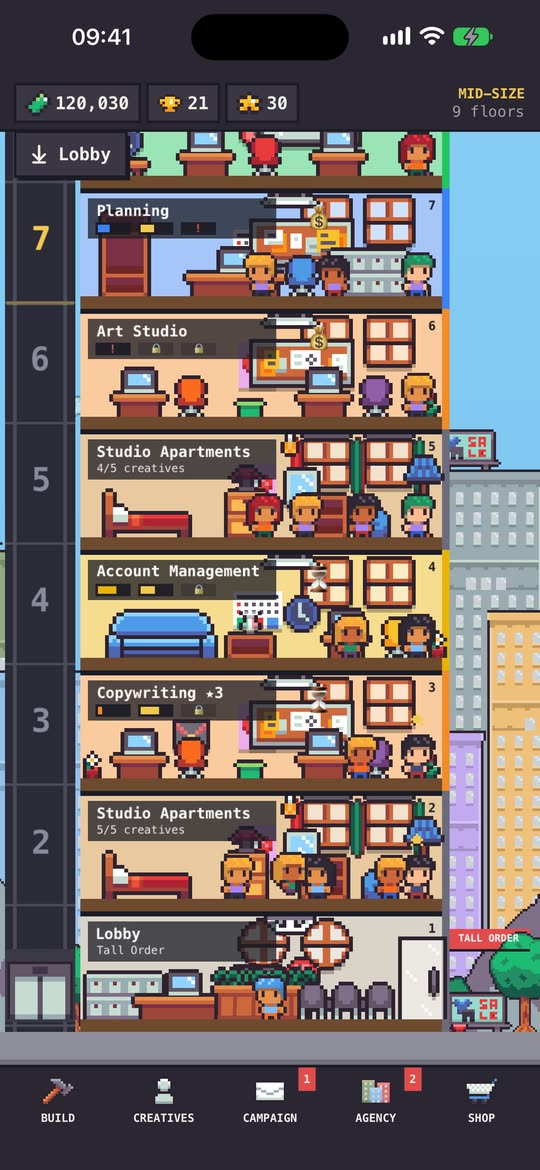
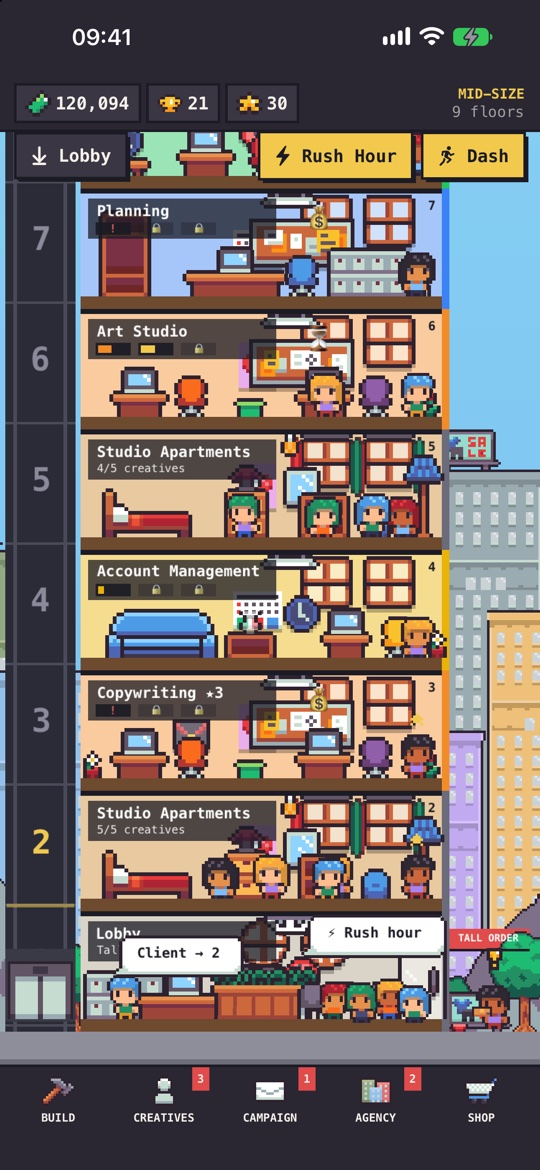
Tower screenshot with the lobby's mini-games

diff --git a/index.html b/index.html
@@ -84,7 +84,7 @@
     <div class="arrows"><button type="button" data-dir="-1" aria-label="Previous screenshots">‹</button><button type="button" data-dir="1" aria-label="Next screenshots">›</button></div>
   </div>
   <div class="track" tabindex="0" aria-label="Screenshots">
-    <figure class="card"><p>Every floor's a department. Keep stacking.</p><img src="img/shots/01-tower.jpg" alt="The tower from the lobby up, every floor busy with pixel creatives" width="540" height="1170" loading="lazy"></figure>
+    <figure class="card"><p>Every floor's a department. Keep stacking.</p><img src="img/shots/01-tower.jpg" alt="The tower from the lobby up: a Rush Hour crowd waits inside and a creative stands under the awning, ready for Deadline Dash" width="540" height="1170" loading="lazy"></figure>
     <figure class="card"><p>A client! With a brief! Due Friday.</p><img src="img/shots/02-campaign.jpg" alt="A campaign brief with the work to deliver, the odds and the prize" width="540" height="1170" loading="lazy"></figure>
     <figure class="card"><p>Beat the agency down the road.</p><img src="img/shots/03-league.jpg" alt="The New Business League table, seven agencies in a three-day season" width="540" height="1170" loading="lazy"></figure>
     <figure class="card"><p>Give people the job they want.</p><img src="img/shots/04-floor.jpg" alt="A department floor and its team of three creatives" width="540" height="1170" loading="lazy"></figure>
